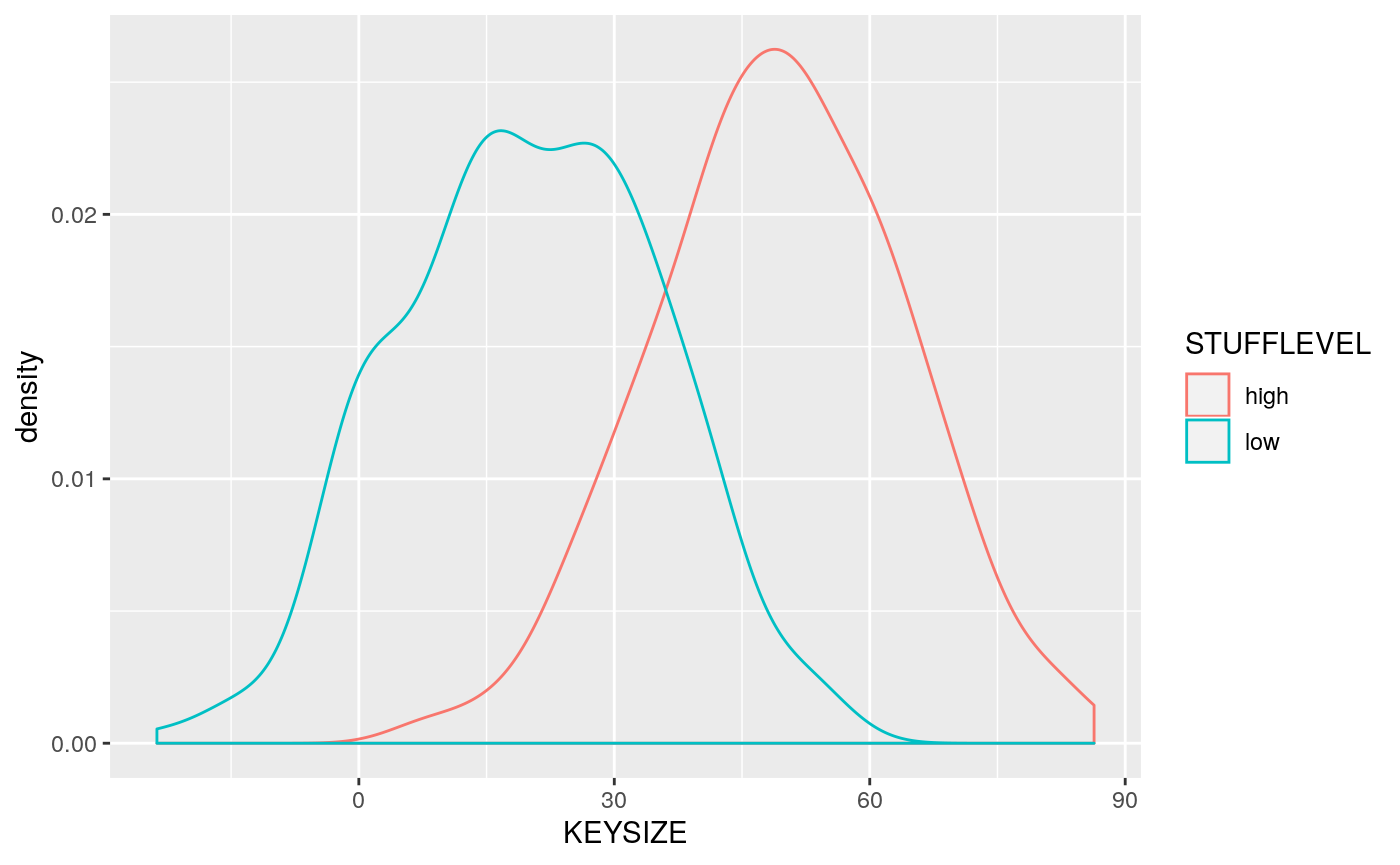
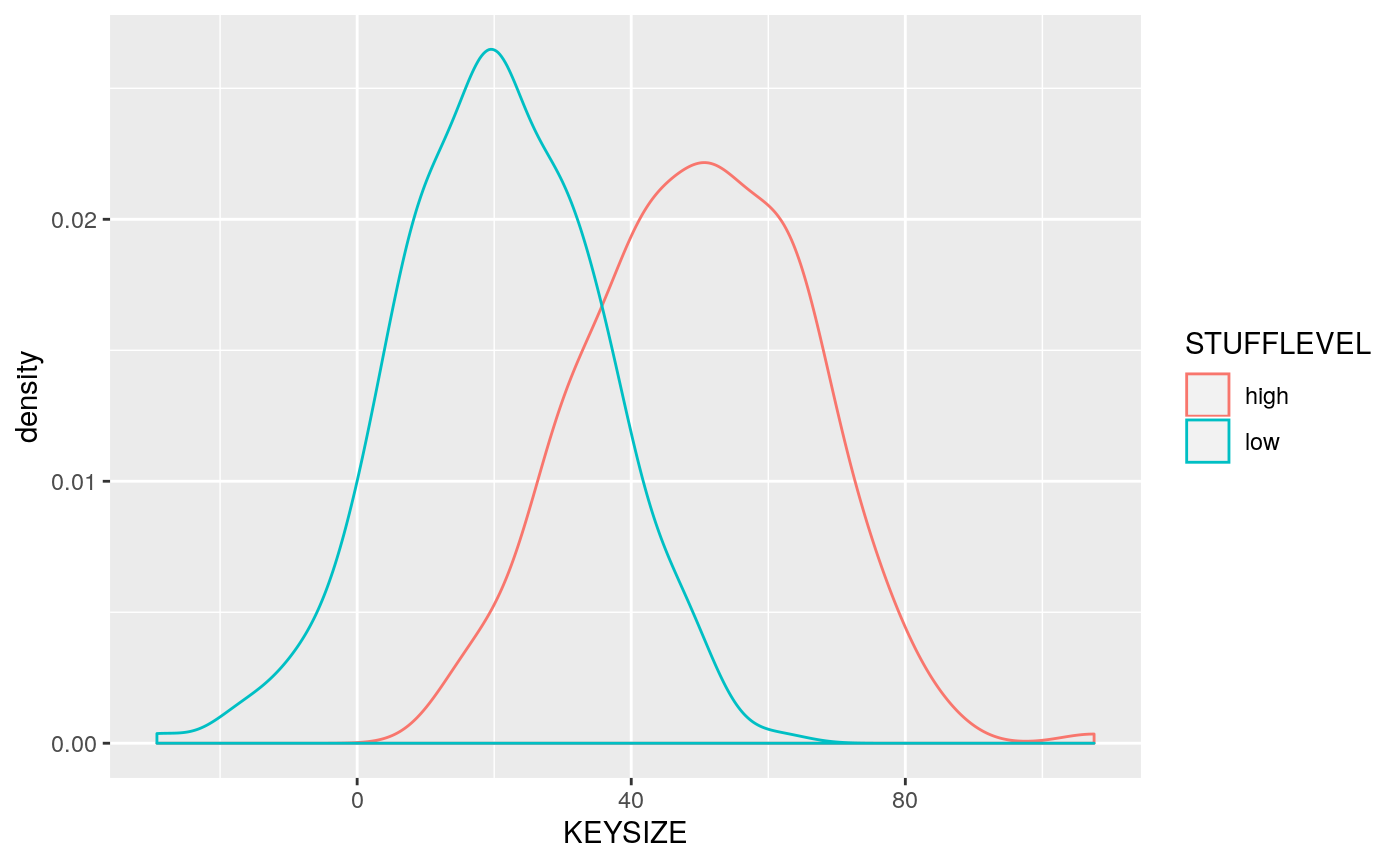
[skip ci] Publish GiHub Pages

diff --git a/articles/creating_synth_relational_data.html b/articles/creating_synth_relational_data.html
@@ -82,7 +82,7 @@
       <h1>Specifying, Simulating and Synthesizing Relational Data in R</h1>
                         <h4 class="author">Gabriel Becker</h4>
             
-            <h4 class="date">2021-05-31</h4>
+            <h4 class="date">2021-06-04</h4>
       
       
       <div class="hidden name"><code>creating_synth_relational_data.Rmd</code></div>
@@ -192,12 +192,12 @@
 <a class="sourceLine" id="cb1-26" data-line-number="26">sillydata &lt;-<span class="st"> </span><span class="kw"><a href="https://rdrr.io/pkg/respectables/man/gen_table_data.html">gen_table_data</a></span>(<span class="dt">N =</span> <span class="dv">500</span>, <span class="dt">recipe =</span> recipe)</a>
 <a class="sourceLine" id="cb1-27" data-line-number="27"><span class="kw"><a href="https://rdrr.io/r/utils/head.html">head</a></span>(sillydata)</a></code></pre></div>
 <pre><code>##      ID STUFFLEVEL  KEYSIZE           ACCT_OPEN         ACCT_CLOSED
-## 1 ID001        low 12.74874 2020-03-28 02:42:09                &lt;NA&gt;
-## 2 ID002        low 37.80491 2016-08-08 23:18:24                &lt;NA&gt;
-## 3 ID003       high 44.14777 2015-08-14 10:24:09                &lt;NA&gt;
-## 4 ID004        low 28.57393 2018-07-07 06:17:06                &lt;NA&gt;
-## 5 ID005        low 29.11141 2015-05-05 19:23:53                &lt;NA&gt;
-## 6 ID006       high 29.42781 2017-03-19 04:31:41 2018-11-05 16:13:03</code></pre>
+## 1 ID001        low 18.78984 2018-10-17 16:33:33                &lt;NA&gt;
+## 2 ID002       high 57.85760 2018-05-26 07:04:27                &lt;NA&gt;
+## 3 ID003        low 34.74798 2019-06-07 03:23:18                &lt;NA&gt;
+## 4 ID004       high 60.41652 2016-12-27 20:53:02                &lt;NA&gt;
+## 5 ID005        low 16.67963 2016-07-18 16:05:42 2017-06-29 14:23:00
+## 6 ID006        low 21.11830 2015-06-23 07:04:47                &lt;NA&gt;</code></pre>
 <p>We can see that the conditional distribution worked by plotting the data densities for each <code>STUFFLEVEL</code> value</p>
 <div class="sourceCode" id="cb3"><pre class="sourceCode r"><code class="sourceCode r"><a class="sourceLine" id="cb3-1" data-line-number="1"><span class="kw"><a href="https://rdrr.io/r/base/message.html">suppressPackageStartupMessages</a></span>(<span class="kw"><a href="https://rdrr.io/r/base/library.html">library</a></span>(ggplot2))</a>
 <a class="sourceLine" id="cb3-2" data-line-number="2"></a>
@@ -291,19 +291,19 @@
 <a class="sourceLine" id="cb6-65" data-line-number="65">buysdf &lt;-<span class="st"> </span><span class="kw"><a href="https://rdrr.io/pkg/respectables/man/gen_reljoin_table.html">gen_reljoin_table</a></span>(sjrecipe, buys_rec, <span class="dt">db =</span> <span class="kw"><a href="https://rdrr.io/r/base/list.html">list</a></span>(<span class="dt">sillydata =</span> sillydata))</a>
 <a class="sourceLine" id="cb6-66" data-line-number="66"><span class="kw"><a href="https://rdrr.io/r/utils/head.html">head</a></span>(buysdf)</a></code></pre></div>
 <pre><code>##      ID STUFFLEVEL  KEYSIZE           ACCT_OPEN ACCT_CLOSED BUYID
-## 3 ID003       high 44.14777 2015-08-14 10:24:09        &lt;NA&gt;    16
-## 1 ID003       high 44.14777 2015-08-14 10:24:09        &lt;NA&gt;    42
-## 4 ID003       high 44.14777 2015-08-14 10:24:09        &lt;NA&gt;   141
-## 2 ID003       high 44.14777 2015-08-14 10:24:09        &lt;NA&gt;   235
-## 6 ID004        low 28.57393 2018-07-07 06:17:06        &lt;NA&gt;   376
-## 5 ID004        low 28.57393 2018-07-07 06:17:06        &lt;NA&gt;   563
+## 4 ID002       high 57.85760 2018-05-26 07:04:27        &lt;NA&gt;   465
+## 2 ID002       high 57.85760 2018-05-26 07:04:27        &lt;NA&gt;   591
+## 3 ID002       high 57.85760 2018-05-26 07:04:27        &lt;NA&gt;   859
+## 1 ID002       high 57.85760 2018-05-26 07:04:27        &lt;NA&gt;  1069
+## 8 ID003        low 34.74798 2019-06-07 03:23:18        &lt;NA&gt;   420
+## 7 ID003        low 34.74798 2019-06-07 03:23:18        &lt;NA&gt;   495
 ##               BUYDATE PRODUCTID         DESC
-## 3 2015-09-21 17:43:46     PROD2 HLight Fluid
-## 1 2016-03-17 06:13:58     PROD1       Doodad
-## 4 2017-06-05 06:19:54     PROD4      Spanner
-## 2 2018-02-09 00:47:29     PROD4      Spanner
-## 6 2018-12-18 11:22:55     PROD1       Doodad
-## 5 2019-11-06 00:28:46     PROD1       Doodad</code></pre>
+## 4 2019-09-07 11:09:24     PROD4      Spanner
+## 2 2020-02-25 10:44:34     PROD4      Spanner
+## 3 2020-11-27 06:26:03     PROD1       Doodad
+## 1 2021-03-30 04:26:36     PROD6  Thingbat v2
+## 8 2019-06-21 01:48:00     PROD2 HLight Fluid
+## 7 2019-10-14 17:38:50     PROD6  Thingbat v2</code></pre>
 </div>
 </div>
   </div>

diff --git a/reference/index.html b/reference/index.html
@@ -130,7 +130,7 @@
       <tr>
         <th colspan="2">
           <h2 id="section-synthetic-relational-data-framework" class="hasAnchor"><a href="#section-synthetic-relational-data-framework" class="anchor"></a>Synthetic Relational Data Framework</h2>
-          <p class="section-desc"><p>This package provides a general framework and utility functions for simulating or synthesizing database-like multiple-table datasets</p></p>
+          <p class="section-desc"><p>General framework functions for simulating or synthesizing database-like multiple-table datasets</p></p>
         </th>
       </tr>
       <tr>
@@ -148,15 +148,49 @@
       </tr><tr>
         
         <td>
-          <p><code><a href="inject_nas.html">inject_nas()</a></code> </p>
+          <p><code><a href="sentinelS.html">no_key</a></code> <code><a href="sentinelS.html">no_deps</a></code> </p>
         </td>
-        <td><p>Apply random or systematic missingness to existing data according to recipe</p></td>
+        <td><p>Sentinel Values for Recipes</p></td>
       </tr><tr>
+        
+        <td>
+          <p><code><a href="table_spec.html">table_spec()</a></code> </p>
+        </td>
+        <td><p>Construct a table specification from one or more recipes</p></td>
+      </tr><tr>
+        
+        <td>
+          <p><code><a href="validate_recipe_deps.html">validate_recipe_deps()</a></code> </p>
+        </td>
+        <td><p>Validate recipe for circular dependencies</p></td>
+      </tr>
+    </tbody><tbody>
+      <tr>
+        <th colspan="2">
+          <h2 id="section-internal-functions" class="hasAnchor"><a href="#section-internal-functions" class="anchor"></a>Internal Functions</h2>
+          <p class="section-desc"></p>
+        </th>
+      </tr>
+      <tr>
         
         <td>
           <p><code><a href="lookup_fun.html">lookup_fun()</a></code> </p>
         </td>
         <td><p>Lookup function from value you recipe column</p></td>
+      </tr>
+    </tbody><tbody>
+      <tr>
+        <th colspan="2">
+          <h2 id="section-helper-functions" class="hasAnchor"><a href="#section-helper-functions" class="anchor"></a>Helper Functions</h2>
+          <p class="section-desc"></p>
+        </th>
+      </tr>
+      <tr>
+        
+        <td>
+          <p><code><a href="inject_nas.html">inject_nas()</a></code> </p>
+        </td>
+        <td><p>Apply random or systematic missingness to existing data according to recipe</p></td>
       </tr><tr>
         
         <td>
@@ -172,21 +206,27 @@
       </tr><tr>
         
         <td>
+          <p><code><a href="rand_dtm.html">pct_orig</a></code> <code><a href="rand_dtm.html">secs_per_year</a></code> <code><a href="rand_dtm.html">secs_per_day</a></code> <code><a href="rand_dtm.html">rand_posixct()</a></code> </p>
+        </td>
+        <td><p>Generate a sample of random datetimes</p></td>
+      </tr><tr>
+        
+        <td>
           <p><code><a href="reljoin_funcs.html">rep_per_key()</a></code> <code><a href="reljoin_funcs.html">rand_per_key()</a></code> </p>
         </td>
         <td><p>Convenience helper functions for defining relational-join recipes</p></td>
       </tr><tr>
         
         <td>
-          <p><code><a href="subjid_func.html">subjid_func()</a></code> </p>
+          <p><code><a href="samps.html">sample_fct()</a></code> <code><a href="samps.html">sample_yn()</a></code> <code><a href="samps.html">rep_n()</a></code> <code><a href="samps.html">seq_n()</a></code> </p>
         </td>
-        <td><p>Generate sequence of "subject id"s</p></td>
+        <td><p>Create a factor with random elements of x</p></td>
       </tr><tr>
         
         <td>
-          <p><code><a href="validate_recipe_deps.html">validate_recipe_deps()</a></code> </p>
+          <p><code><a href="subjid_func.html">subjid_func()</a></code> </p>
         </td>
-        <td><p>Validate recipe for circular dependencies</p></td>
+        <td><p>Generate sequence of "subject id"s</p></td>
       </tr>
     </tbody>
     </table>
@@ -196,6 +236,8 @@
     <h2>Contents</h2>
     <ul class="nav nav-pills nav-stacked">
       <li><a href="#section-synthetic-relational-data-framework">Synthetic Relational Data Framework</a></li>
+      <li><a href="#section-internal-functions">Internal Functions</a></li>
+      <li><a href="#section-helper-functions">Helper Functions</a></li>
     </ul>
   </div>
 </div>

diff --git a/reference/lookup_fun.html b/reference/lookup_fun.html
@@ -149,16 +149,16 @@ it directly.</p>
     <h2 class="hasAnchor" id="examples"><a class="anchor" href="#examples"></a>Examples</h2>
     <pre class="examples"><div class='input'><span class='fu'>lookup_fun</span>(<span class='no'>rnorm</span>)</div><div class='output co'>#&gt; function (n, mean = 0, sd = 1) 
 #&gt; .Call(C_rnorm, n, mean, sd)
-#&gt; &lt;bytecode: 0x55d60b676040&gt;
+#&gt; &lt;bytecode: 0x55958a6cb3a0&gt;
 #&gt; &lt;environment: namespace:stats&gt;</div><div class='input'><span class='fu'>lookup_fun</span>(<span class='st'>"rnorm"</span>)</div><div class='output co'>#&gt; function (n, mean = 0, sd = 1) 
 #&gt; .Call(C_rnorm, n, mean, sd)
-#&gt; &lt;bytecode: 0x55d60b676040&gt;
+#&gt; &lt;bytecode: 0x55958a6cb3a0&gt;
 #&gt; &lt;environment: namespace:stats&gt;</div><div class='input'><span class='fu'>lookup_fun</span>(<span class='st'>"stats::rnorm"</span>)</div><div class='output co'>#&gt; function (n, mean = 0, sd = 1) 
 #&gt; .Call(C_rnorm, n, mean, sd)
-#&gt; &lt;bytecode: 0x55d60b676040&gt;
+#&gt; &lt;bytecode: 0x55958a6cb3a0&gt;
 #&gt; &lt;environment: namespace:stats&gt;</div><div class='input'><span class='fu'>lookup_fun</span>(<span class='st'>"stats:::rnorm"</span>)</div><div class='output co'>#&gt; function (n, mean = 0, sd = 1) 
 #&gt; .Call(C_rnorm, n, mean, sd)
-#&gt; &lt;bytecode: 0x55d60b676040&gt;
+#&gt; &lt;bytecode: 0x55958a6cb3a0&gt;
 #&gt; &lt;environment: namespace:stats&gt;</div></pre>
   </div>
   <div class="col-md-3 hidden-xs hidden-sm" id="sidebar">
